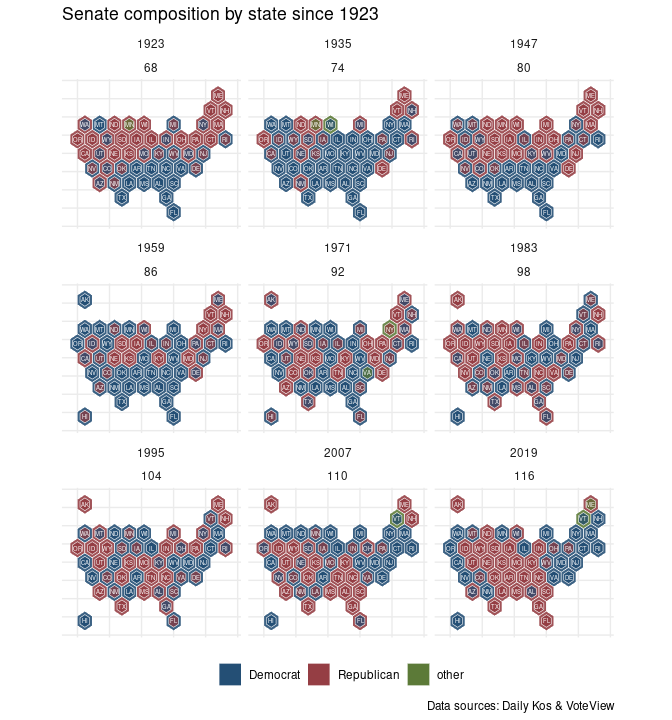
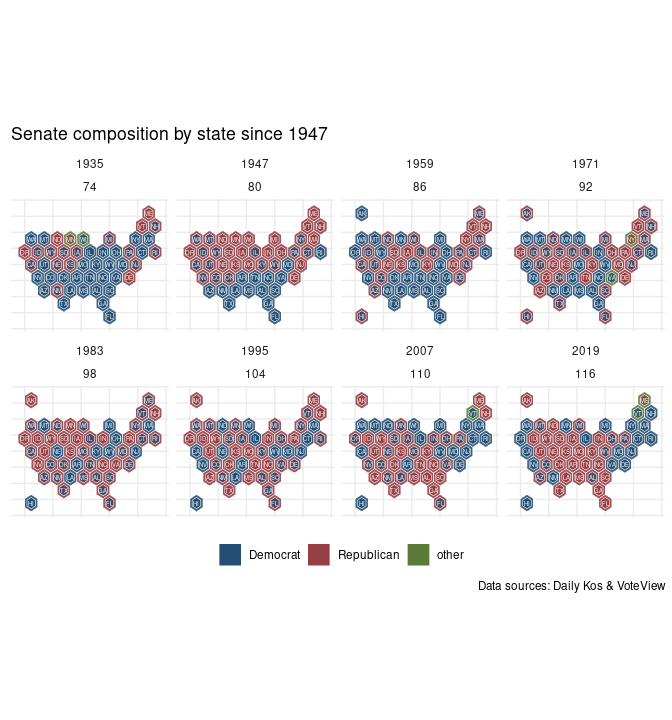
re

diff --git a/README.md b/README.md
@@ -209,8 +209,8 @@ vvo <- lapply(c('house', 'senate'), function(x) {
     filter(congress > con & chamber != 'President') }) #66
 ```
 
-    ## [1] "/tmp/Rtmpb9OwwA/Hall_members.csv"
-    ## [1] "/tmp/Rtmpb9OwwA/Sall_members.csv"
+    ## [1] "/tmp/RtmptxKQy9/Hall_members.csv"
+    ## [1] "/tmp/RtmptxKQy9/Sall_members.csv"
 
 ``` r
 congress <- vvo %>%
@@ -414,23 +414,25 @@ sens <- congress %>%
                                         after = 2)) %>%
   mutate(year = year + 1) %>%
   group_by(year, congress, state_abbrev) %>%
-  mutate(layer = row_number())%>%
   slice(1:2) %>%
-  ungroup() %>%
-  arrange (year, state_abbrev, party_name) %>%
-  select(year, congress, state_abbrev, party_name, layer)
+  ungroup() 
 ```
 
 ``` r
 sens2 <- sens %>%
   filter(congress %in% c(68, 74, 80,
                          86, 92, 98, 
-                         104, 110, 116))
+                         104, 110, 116)) %>%
+  group_by(year, congress, state_abbrev) %>%
+  arrange (party_name) %>%
+  mutate(layer = row_number()) %>%
+  ungroup()
 ```
 
 ``` r
 uspols::xsf_TileOutv10 %>%
-  left_join(sens2 %>% filter(layer == 2)) %>%
+  left_join(sens2 %>% filter(layer == 2,
+                             year > 1934)) %>%
   ggplot() + 
   geom_sf(aes(fill = party_name),
           color = 'white', 
@@ -438,7 +440,8 @@ uspols::xsf_TileOutv10 %>%
           alpha = .85) + 
   
   geom_sf(data = uspols::xsf_TileInv10 %>%
-            left_join(sens2 %>% filter (layer == 1)), 
+            left_join(sens2 %>% filter (layer == 1, 
+                                        year > 1934)), 
           aes(fill = party_name),
           color = 'white', 
           lwd = 0.2,
@@ -454,8 +457,8 @@ uspols::xsf_TileOutv10 %>%
   theme_guide() +
   theme(legend.position = 'bottom') +
   
-  facet_wrap(~year + congress) +
-  labs(title = "Senate composition by state since 1923",
+  facet_wrap(~year + congress, nrow = 2) +
+  labs(title = "Senate composition by state since 1947",
        caption = 'Data sources: Daily Kos & VoteView')
 ```
 
